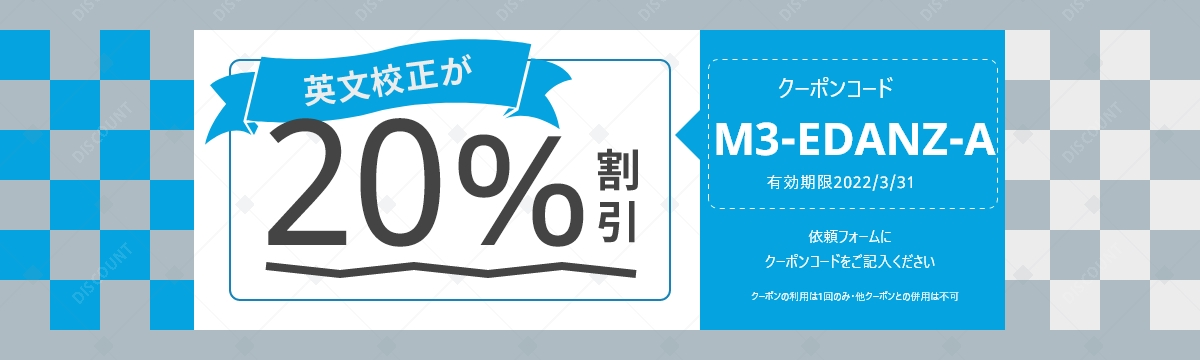
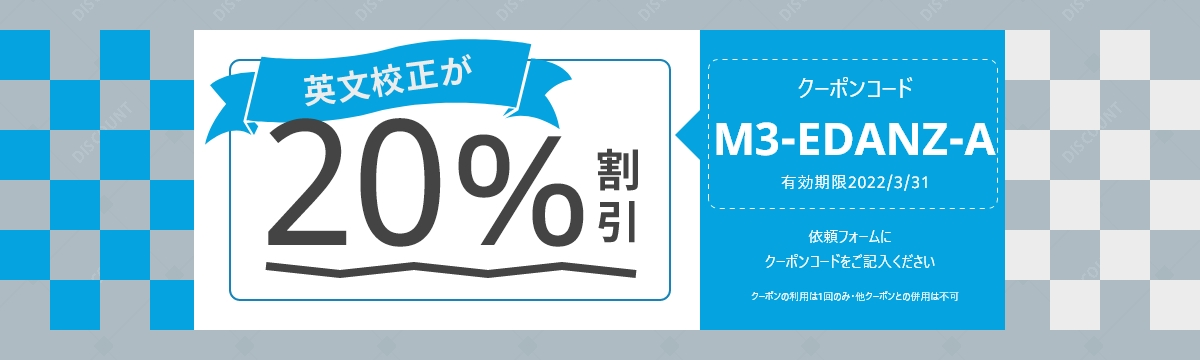
update

diff --git a/M3-coupon/b.html b/M3-coupon/b.html
@@ -21,25 +21,24 @@
             </h3>
             <hr>
             <p>
-              エダンズへようこそ。<br>
-              アンケートご協力のお礼として、人気の「英文校正」20％割引のクーポンをご提供!<br>
-              経験豊富な出版のプロであるネイティブ専門家が、英文の読みやすさを高め、論点を明確にし、採択率を高めます。<br>
-              【英文校正料金目安】<br>
-              4500ワードの場合：<br>
-              74,250円　⇒ <span>59,400円！（14,850円もお得）</span><br>
-              <span>6万以内で、2営業日のスピード返却</span><br>
+              エダンズへようこそ。アンケートご協力のお礼として、「英文校正」が20％割引でご利用いただけるクーポンを進呈いたします。<br>
+              経験豊富なネイティブ専門家が英文の読みやすさと採択率を最大限に高める、人気の英文校正をお得な価格でお試しください。<br>
               <br>
-              スピードとクオリティの英文校正をぜひお試しください！
+              【英文校正料金目安】<br>
+              5000ワード・ゆとりプランの場合：<br>
+              <span class="line-through">63,250円</span>　⇒ <span>50,600円！（12,650円もお得）</span><br>
+              *納期選択の際、「納期の遅いプランをお探しですか？」をクリックし、「ゆとりプラン」をご選択ください。<br>
+              <br>
+              スピードとクオリティの英文校正をぜひこの機会に！
             </p>
 
             <div class="m3c-left--row">
               <h2>
+                クーポンコード：M3-EDANZ-B
                 <span>
-                  クーポンコード：<br>
-                  M3-EDANZ-B
+                  *右のボタンより、ご依頼フォームに移動します。<br>
+                  ご依頼フォームの1ページ目にご記入ください
                 </span>
-                *右のボタンより、ご依頼フォームに移動します。<br>
-                ご依頼フォームの1ページ目にご記入ください
               </h2>
 
               <a href="https://m3.edanz.com/order?m=443298">

diff --git a/M3-coupon/a.html b/M3-coupon/a.html
@@ -27,19 +27,18 @@
               <br>
               【英文校正料金目安】<br>
               5000ワード（2営業日納品）の場合：<br>
-              82,500円　⇒ <span>66,000円！（16,500円もお得）</span><br>
+              <span class="line-through">82,500円</span>　⇒ <span>66,000円！（16,500円もお得）</span><br>
               <br>
               割引価格で2営業日返却。スピードとクオリティの英文校正をぜひお試しください。
             </p>
 
             <div class="m3c-left--row">
               <h2>
+                クーポンコード：M3-EDANZ-A
                 <span>
-                  クーポンコード：<br>
-                  M3-EDANZ-A
+                  *右のボタンより、ご依頼フォームに移動します。<br>
+                  ご依頼フォームの1ページ目にご記入ください
                 </span>
-                *右のボタンより、ご依頼フォームに移動します。<br>
-                ご依頼フォームの1ページ目にご記入ください
               </h2>
 
               <a href="https://m3.edanz.com/order?m=443298">

diff --git a/M3-coupon/css/a.css b/M3-coupon/css/a.css
@@ -18,6 +18,10 @@
   line-height: 1.2;
   margin: 0;
 }
+.line-through {
+  color: #000 !important;
+  text-decoration: line-through;
+}
 
 .m3c {
   margin: 0 auto;
@@ -46,6 +50,7 @@
 
 
 .m3c-left {
+  flex-grow: 1;
   padding: 5px 50px 30px 20px;
 }
 .m3c-left h3 {
@@ -77,16 +82,18 @@
   align-items: center;
 }
 .m3c-left--row h2 {
-  font-size: 14px !important;
-  font-weight: 500 !important;
-  line-height: 26px;
-}
-.m3c-left--row h2 span {
   color: #05A3E0;
-  display: block;
-  font-size: 25px !important;
+  font-size: 23px !important;
   font-weight: 600 !important;
   line-height: 30px;
+  text-align: center;
+}
+.m3c-left--row h2 span {
+  color: #000;
+  display: block;
+  font-size: 12px !important;
+  font-weight: 500 !important;
+  line-height: 18px;
 }
 .m3c-left--row a {
   background-color: #203762;
@@ -94,7 +101,7 @@
   color: #fff;
   display: block;
   flex-shrink: 0;
-  font-size: 23px !important;
+  font-size: 22px !important;
   font-weight: 700 !important;
   line-height: 35px;
   text-decoration: none;

diff --git a/M3-coupon/c.html b/M3-coupon/c.html
@@ -33,12 +33,11 @@
 
             <div class="m3c-left--row">
               <h2>
+                クーポンコード：M3-EDANZ-C
                 <span>
-                  クーポンコード：<br>
-                  M3-EDANZ-C
+                  *右のボタンより、ご依頼フォームに移動します。<br>
+                  ご依頼フォームの1ページ目にご記入ください
                 </span>
-                *右のボタンより、ご依頼フォームに移動します。<br>
-                ご依頼フォームの1ページ目にご記入ください
               </h2>
 
               <a href="https://m3.edanz.com/order?m=443298">
